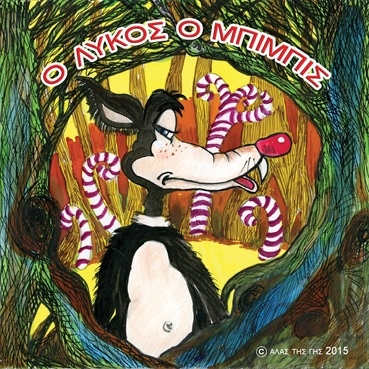
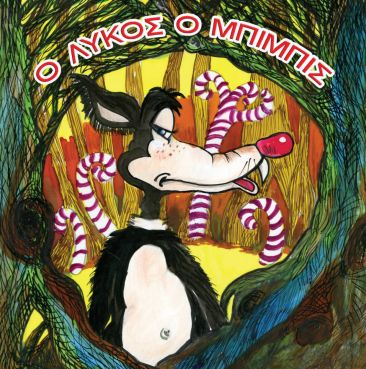
refresh παραμύθια covers and align filenames with the cover suffix

diff --git a/paidika_paramythia.html b/paidika_paramythia.html
@@ -104,7 +104,7 @@
                         <li>
                             <a href="pes_mou_mama_kati_gia_ta_xristougenna.html">
                                 <img
-                                    src="images/pes_mou_mama_kati_gia_ta_xristougenna.jpg"
+                                    src="images/pes_mou_mama_kati_gia_ta_xristougenna_cover.jpg"
                                     alt="Εξώφυλλο: Πες μου μαμά κάτι για τα Χριστούγεννα"
                                     loading="lazy"
                                 />